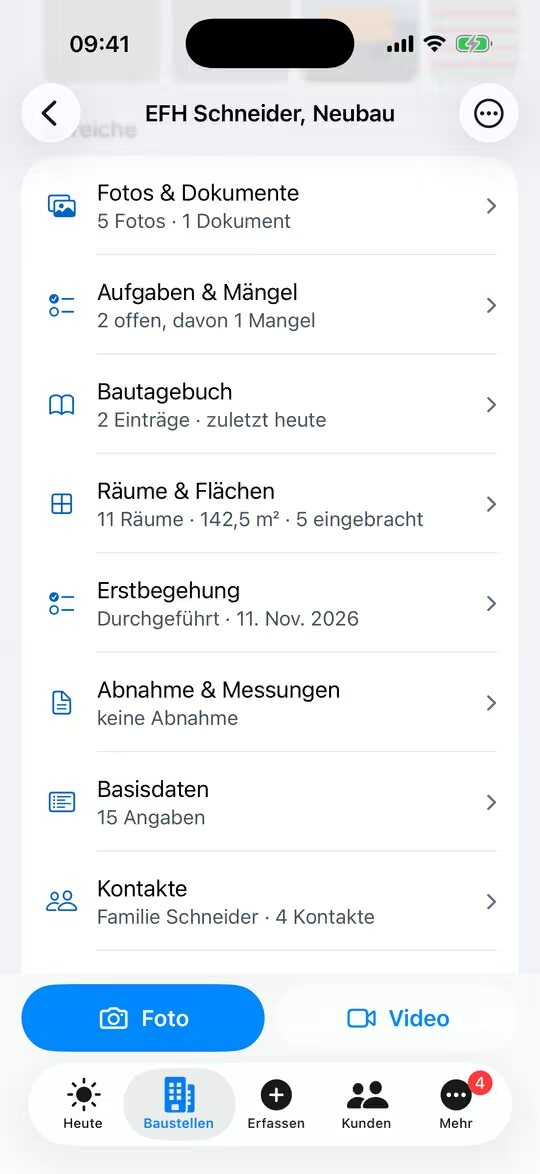
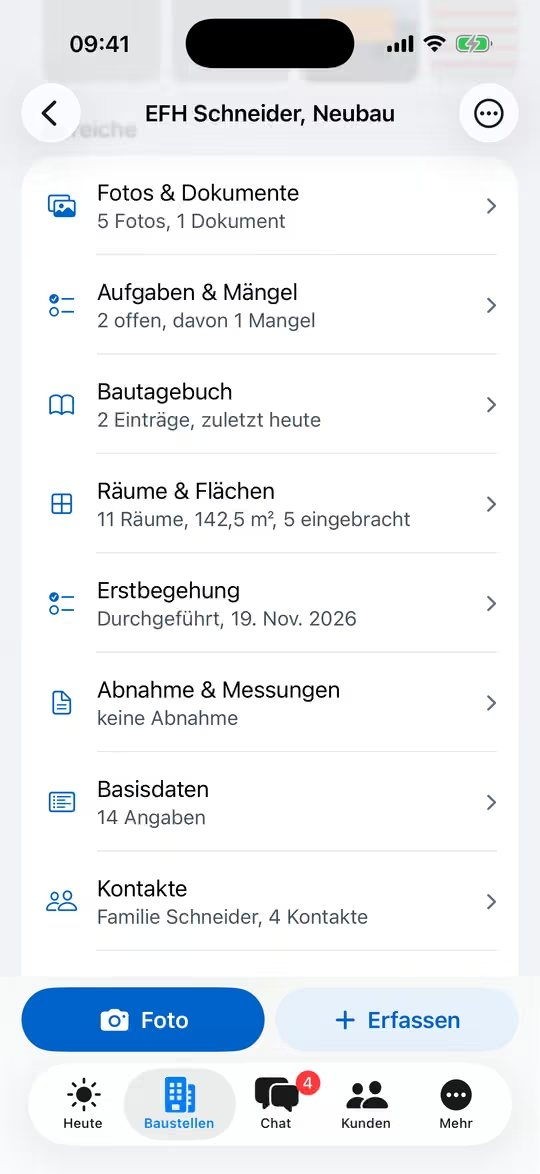
Handbuch und Kurzanleitungen: Bilder der neuen iOS-Oberfläche, Erfassen in der Bauakte; Bauakte-Szene Mitte zeigt Kennzahlen

diff --git a/ios/EstrichONE/Bauakten/BauakteDetailView.swift b/ios/EstrichONE/Bauakten/BauakteDetailView.swift
@@ -181,7 +181,7 @@ struct BauakteDetailView: View {
             .safeAreaInset(edge: .bottom) { if !content.viewOnly { captureBar } }
             .task(id: loaded) {
                 // Screenshot-Modus: Mitte (Kennwerte, offene Punkte, Fotos) bzw. unten (alle Bereiche).
-                guard loaded, let target = shotScene == "bauakte-unten" ? "areas" : shotScene == "bauakte-mitte" ? "navigation" : nil else { return }
+                guard loaded, let target = shotScene == "bauakte-unten" ? "areas" : shotScene == "bauakte-mitte" ? "metrics" : nil else { return }
                 try? await Task.sleep(for: .milliseconds(300))
                 proxy.scrollTo(target, anchor: .top)
             }
@@ -286,6 +286,7 @@ struct BauakteDetailView: View {
             }
         }
         .padding(.horizontal, Space.l)
+        .id("metrics")
     }
 
     private func metric(_ value: String, label: String, tint: Color, action: @escaping () -> Void) -> some View {

diff --git a/docs/schulung/kurzanleitungen/k02-fotos-dokumente.md b/docs/schulung/kurzanleitungen/k02-fotos-dokumente.md
@@ -4,26 +4,26 @@
 
 # Fotos, Videos und Dokumente zur Bauakte
 
-![Erfassen](../../handbuch/app/bilder/iphone-erfassen.jpg "Tab Erfassen: Baustelle ist vorausgewählt"){rechts}
+![Erfassen](../../handbuch/app/bilder/iphone-bauakte-erfassen.jpg "Erfassen in der Bauakte: alle Erfassungen an einer Stelle"){rechts}
 
 ## Foto aufnehmen
 
 1. Auf der **Heute**-Seite unter **Mein Einsatz** auf **Foto** tippen, das Foto landet direkt in der richtigen Bauakte.
-   Andere Baustelle: Tab **Erfassen** → **Ändern** → Baustelle wählen → **Foto**.
+   Andere Baustelle: Tab **Baustellen** → Bauakte öffnen → unten **Foto**.
 2. Optional eine **Beschriftung** eingeben, z. B. „Randdämmung Bad OG“. Sie gilt für die ganze Serie.
 3. Beliebig viele Fotos nacheinander aufnehmen (oder **Aus Fotos auswählen**).
 4. **Übernehmen** tippen.
 
 ## Dokument scannen (Lieferschein, Plan)
 
-1. In der Bauakte auf **Scanner** tippen (oder **Erfassen** → **Dokument scannen**).
+1. In der Bauakte unten auf **Erfassen** → **Dokument scannen** tippen.
 2. Seiten scannen, der Scanner erkennt die Ränder selbst. Weitere Seiten mit **Weitere Seiten scannen**.
 3. **Dokumentart** wählen (z. B. Lieferschein), **Text erkennen (durchsuchbares PDF)** anlassen.
 4. **Als PDF ablegen** tippen.
 
 ## Video aufnehmen
 
-1. Bauakte → **Mehr** → **Video aufnehmen** (oder **Erfassen** → **Video**).
+1. Bauakte → **Erfassen** → **Video aufnehmen**.
 2. Aufnehmen (höchstens **2 Minuten**) → **Video speichern**.
 
 > **Hinweis:** Kein Netz? Dann meldet die App: „Foto gespeichert. Es wird übertragen, sobald eine Verbindung besteht.“ Alles liegt

diff --git a/docs/schulung/kurzanleitungen/k03-tagebuch-maengel.md b/docs/schulung/kurzanleitungen/k03-tagebuch-maengel.md
@@ -9,7 +9,7 @@
 
 ## Bautagebuch-Eintrag
 
-1. Auf der Heute-Seite (oder in der Bauakte) auf **Tagebuch** tippen.
+1. Auf der Heute-Seite auf **Tagebuch** tippen (oder in der Bauakte **Erfassen** → **Bautagebuch-Eintrag**).
 2. **Tag** prüfen (vorbelegt mit heute).
 3. Unter **Was ist passiert?** schreiben oder diktieren, oder **Textbausteine** antippen, z. B. „Estrich eingebracht“,
    „Baustelle nicht frei“, „Wartezeit wegen Vorgewerk“.
@@ -18,7 +18,7 @@
 
 ## Mangel melden
 
-1. Auf **Mangel** tippen (Heute-Seite, Bauakte oder **Erfassen** → **Mangel melden**).
+1. Auf **Mangel** tippen (Heute-Seite in der Karte des Einsatzes oder Bauakte → **Erfassen** → **Mangel melden**).
 2. **Was ist mangelhaft?** kurz beschreiben, bei Bedarf **Details**.
 3. **Frist** wählen: Heute, Morgen, In 3 Tagen, In 1 Woche oder ein Datum.
 4. **Zuständig** wählen, eine Person oder **Niemand**.
@@ -29,5 +29,5 @@
 1. **Meine Aufgaben** öffnen (Kachel auf der Heute-Seite).
 2. Auf den **Kreis** vor dem Punkt tippen. Er ist **erledigt**. Versehen? **Wieder öffnen**.
 
-> **Hinweis:** Aufgaben funktionieren genauso wie Mängel: in der Bauakte **Mehr** → **Aufgabe** bzw. **Erfassen** →
-> **Aufgabe**. Im Web stehen alle Punkte in der Bauakte unter **Aufgaben & Mängel**.
+> **Hinweis:** Aufgaben funktionieren genauso wie Mängel: in der Bauakte **Erfassen** →
+> **Aufgabe anlegen**. Im Web stehen alle Punkte in der Bauakte unter **Aufgaben & Mängel**.

diff --git a/docs/schulung/kurzanleitungen/k17-erstbegehung-cm.md b/docs/schulung/kurzanleitungen/k17-erstbegehung-cm.md
@@ -9,7 +9,7 @@
 
 ## Erstbegehung
 
-1. Bauakte → **Mehr** → **Erstbegehung** (oder **Protokolle** bzw. **Erfassen** → **Erstbegehung**).
+1. Bauakte → **Erfassen** → **Erstbegehung** (oder Bereich **Erstbegehung**).
 2. Je Prüfpunkt **In Ordnung**, **Mangel** oder **Entfällt**, mit **Foto zu diesem Punkt**, bei Mangel kurz beschreiben.
 3. **Messwerte und Angaben** (z. B. Fläche, Estrichdicke) und **Notizen** eintragen.
 4. Unter **Fotos und Unterschrift** weitere Fotos aufnehmen, Kunde **unterschreiben** lassen.
@@ -20,7 +20,7 @@ nicht überschrieben, sondern **korrigiert**. PDF: **Als PDF ansehen** (Verbindu
 
 ## CM-Messung (Belegreife)
 
-1. Bauakte → **Mehr** → **CM-Messung** (oder **Protokolle** bzw. **Erfassen**).
+1. Bauakte → **Erfassen** → **CM-Messung** (oder Bereich **Abnahme & Messungen**).
 2. **Estrichart** wählen (**Zementestrich (CT)** oder **Calciumsulfatestrich (CA)**) und ob **beheizt**.
 3. **Messort** (z. B. „Bad OG“) und **Messwert** in CM-% eintragen, optional Foto vom Messgerät.
 4. Die App zeigt sofort **Belegreif** oder **Noch nicht belegreif**.

diff --git a/docs/schulung/kurzanleitungen/k04-abnahme.md b/docs/schulung/kurzanleitungen/k04-abnahme.md
@@ -9,7 +9,7 @@
 
 ## In der App: auch ohne Netz
 
-1. Bauakte öffnen → **Mehr** → **Abnahme** (oder **Erfassen** → **Abnahme**).
+1. Bauakte öffnen → **Erfassen** → **Abnahme** (oder Bereich **Abnahme & Messungen**).
 2. **Ergebnis** wählen: **Abgenommen**, **Mit Vorbehalt** oder **Verweigert**.
 3. **Teilnehmer und Ort** prüfen (Auftraggeber, Auftragnehmer, Adresse) und die **abgenommene Leistung** eintragen,
    z. B. „Zementestrich CT-C25-F4, 65 mm, EG und OG“.
